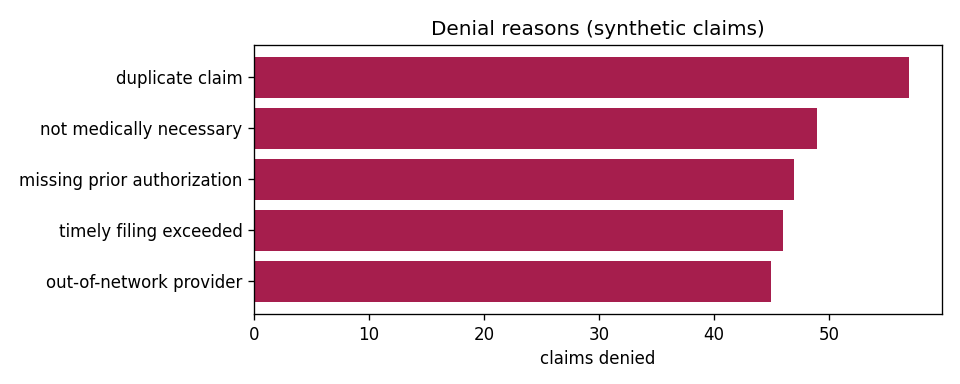
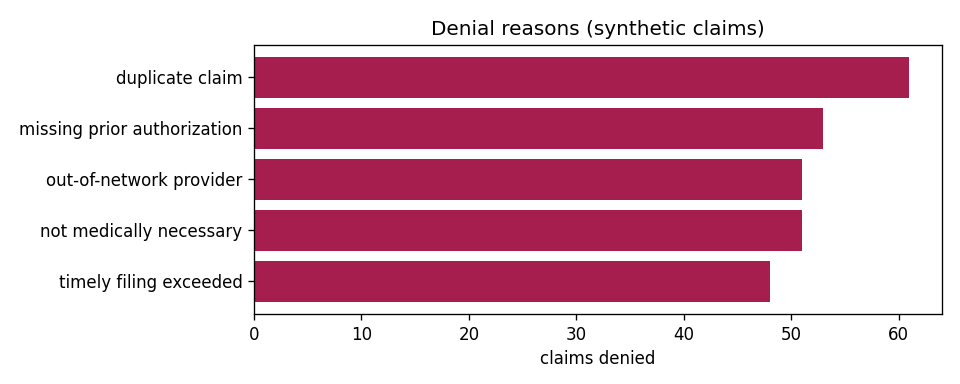
Add paid-concentration curve chart; new batches

diff --git a/src/healthdata/report.py b/src/healthdata/report.py
@@ -84,6 +84,7 @@ def render_markdown(monthly: list[dict], denial_reasons: list[tuple[str, int]],
         lines += ["", "## Paid-amount concentration", "",
                   f"Share of total paid ({concentration['claims']} claims) held by the largest claims. "
                   "Synthetic data, illustrative.", "",
+                  "![Paid concentration curve](paid_concentration.png)", "",
                   "| Top claims | Count | Share of paid |", "| --- | ---: | ---: |"]
         for t in concentration["tiers"]:
             lines.append(f"| top {t['top_pct']:.0%} | {t['claims']} | {t['share_of_paid']:.1%} |")
@@ -188,6 +189,27 @@ def plot_age_band_costs(age_bands: list[dict], out_path) -> bool:
                     bar.get_height()), ha="center", va="bottom", fontsize=8)
     ax.set_title("Average paid per claim by age band (synthetic claims)")
     ax.set_ylabel("USD per claim")
+    fig.tight_layout()
+    fig.savefig(out_path, dpi=120)
+    plt.close(fig)
+    return True
+
+
+def plot_paid_concentration(curve: list[tuple[float, float]], out_path) -> bool:
+    """Cumulative paid share vs claim share (largest first) against the
+    equal-spend diagonal. Synthetic data."""
+    if not curve:
+        return False
+    fig, ax = plt.subplots(figsize=(5.5, 4.5))
+    ax.plot([p[0] * 100 for p in curve], [p[1] * 100 for p in curve], color="#1c7ed6", linewidth=2,
+            label="largest claims first")
+    ax.plot([0, 100], [0, 100], color="grey", linestyle="--", label="equal spend")
+    ax.set_xlabel("% of claims (largest paid first)")
+    ax.set_ylabel("% of total paid")
+    ax.set_title("Paid-amount concentration (synthetic)", fontsize=11)
+    ax.set_xlim(0, 100)
+    ax.set_ylim(0, 100)
+    ax.legend(loc="lower right", fontsize=8)
     fig.tight_layout()
     fig.savefig(out_path, dpi=120)
     plt.close(fig)

diff --git a/tests/test_pipeline.py b/tests/test_pipeline.py
@@ -331,3 +331,22 @@ def test_concentration_section_renders():
         "claims": 100, "total_paid": 1990.0,
         "tiers": [{"top_pct": 0.01, "claims": 1, "share_of_paid": 0.5025}]})
     assert "| top 1% | 1 | 50.2% |" in md or "| top 1% | 1 | 50.3% |" in md
+
+
+def test_paid_curve_shape_and_values(tmp_path):
+    pipe = Pipeline(tmp_path / "c.csv")
+    pipe.ingest([make_valid(f"CLM-{i}", billed_amount=2000, allowed_amount=1500, paid_amount=p)
+                 for i, p in enumerate([60, 20, 10, 10])])      # total 100
+    curve = pipe.paid_curve(points=4)
+    assert curve == [(0.0, 0.0), (0.25, 0.6), (0.5, 0.8), (0.75, 0.9), (1.0, 1.0)]
+    shares = [c[1] for c in pipe.paid_curve(points=20)]
+    assert shares == sorted(shares) and shares[-1] == 1.0       # monotonic, ends at 100%
+    assert Pipeline(tmp_path / "e.csv").paid_curve() == []
+    assert pipe.paid_curve(points=0) == []
+
+
+def test_concentration_chart_renders(tmp_path):
+    from healthdata import report
+    assert report.plot_paid_concentration([(0.0, 0.0), (0.5, 0.8), (1.0, 1.0)], tmp_path / "c.png") is True
+    assert (tmp_path / "c.png").stat().st_size > 1000
+    assert report.plot_paid_concentration([], tmp_path / "x.png") is False

diff --git a/src/healthdata/pipeline.py b/src/healthdata/pipeline.py
@@ -202,6 +202,22 @@ class Pipeline:
                                  "share_of_paid": round(sum(paid[:k]) / total, 4)})
         return out
 
+    def paid_curve(self, points: int = 20) -> list[tuple[float, float]]:
+        """Cumulative share of paid dollars vs share of claims, largest claims
+        first, as (claims_fraction, paid_fraction) from (0, 0) to (1, 1).
+        Empty when there is nothing paid. Synthetic data, illustrative."""
+        import math
+
+        paid = sorted((float(r["paid_amount"] or 0) for r in self.load_store().values()), reverse=True)
+        total = sum(paid)
+        if not paid or total <= 0 or points < 1:
+            return []
+        out = [(0.0, 0.0)]
+        for i in range(1, points + 1):
+            k = math.ceil(len(paid) * i / points)
+            out.append((round(k / len(paid), 4), round(sum(paid[:k]) / total, 4)))
+        return out
+
     def procedure_summary(self, top: int = 5) -> list[dict]:
         """Top procedure codes by total paid, with claim count, average billed
         and denial rate. Illustrative synthetic metrics."""

diff --git a/scripts/daily_update.py b/scripts/daily_update.py
@@ -66,6 +66,8 @@ def main() -> int:
     )
     if report.plot_monthly_financials(monthly, REPORTS / "monthly_financials.png"):
         print("wrote financials chart")
+    if report.plot_paid_concentration(pipe.paid_curve(), REPORTS / "paid_concentration.png"):
+        print("wrote concentration chart")
     if report.plot_age_band_costs(pipe.age_band_costs(), REPORTS / "age_band_costs.png"):
         print("wrote age band chart")
     if report.plot_denial_reasons(reasons, REPORTS / "denial_reasons.png"):

diff --git a/reports/claims_report.md b/reports/claims_report.md
@@ -1,8 +1,8 @@
 # Healthcare Data - claims pipeline report
 
-Generated 2026-11-19 15:12 UTC. All data is synthetic - no real member, patient or plan information.
+Generated 2026-11-19 20:13 UTC. All data is synthetic - no real member, patient or plan information.
 
-**2240 claims** in store. Billed $6,921,161, paid $4,041,193, denied 244 overall.
+**2360 claims** in store. Billed $7,429,836, paid $4,314,780, denied 264 overall.
 
 ## Monthly financials
 
@@ -20,31 +20,31 @@ Generated 2026-11-19 15:12 UTC. All data is synthetic - no real member, patient 
 | 2026-08 | 50 | $87,251 | $70,911 | $55,220 | 18.0% |
 | 2026-09 | 28 | $97,162 | $80,729 | $53,482 | 7.1% |
 | 2026-10 | 47 | $71,505 | $55,063 | $42,442 | 8.5% |
-| 2026-11 | 1761 | $5,651,199 | $4,387,054 | $3,249,744 | 11.0% |
+| 2026-11 | 1881 | $6,159,873 | $4,771,873 | $3,523,330 | 11.4% |
 
 ## Denial reasons
 
-- duplicate claim (57)
-- not medically necessary (49)
-- missing prior authorization (47)
-- timely filing exceeded (46)
-- out-of-network provider (45)
+- duplicate claim (61)
+- missing prior authorization (53)
+- out-of-network provider (51)
+- not medically necessary (51)
+- timely filing exceeded (48)
 
 ## Plan mix
 
-- HMO: 589
-- PPO: 579
-- HDHP: 538
-- EPO: 534
+- HMO: 618
+- PPO: 613
+- HDHP: 566
+- EPO: 563
 
 ## Plan performance
 
 | Plan | Claims | Denial rate | Paid / billed |
 | --- | ---: | ---: | ---: |
-| HMO | 589 | 8.7% | 62.4% |
-| PPO | 579 | 11.7% | 55.5% |
-| HDHP | 538 | 9.3% | 60.6% |
-| EPO | 534 | 14.0% | 55.0% |
+| HMO | 618 | 8.9% | 61.5% |
+| PPO | 613 | 11.8% | 56.0% |
+| HDHP | 566 | 9.5% | 59.1% |
+| EPO | 563 | 14.7% | 55.4% |
 
 ## Cost sharing by plan (non-denied claims)
 
@@ -52,10 +52,10 @@ Network discount = 1 - allowed/billed. Member cost share = (allowed - paid)/allo
 
 | Plan | Claims | Network discount | Member cost share |
 | --- | ---: | ---: | ---: |
-| HMO | 538 | 21.2% | 15.2% |
-| PPO | 511 | 22.7% | 15.2% |
-| EPO | 459 | 23.3% | 14.9% |
-| HDHP | 488 | 22.7% | 14.7% |
+| PPO | 541 | 22.9% | 15.4% |
+| HMO | 563 | 21.3% | 15.3% |
+| HDHP | 512 | 23.0% | 15.0% |
+| EPO | 480 | 23.3% | 14.8% |
 
 ## Denial-rate outliers (plan x month)
 
@@ -63,32 +63,34 @@ Cells whose denial rate is at least 2 standard errors from the overall rate (cel
 
 | Plan | Month | Claims | Denial rate | Overall | z |
 | --- | --- | ---: | ---: | ---: | ---: |
-| EPO | 2026-11 | 414 | 14.7% | 10.9% | +2.51 |
-| HMO | 2026-11 | 456 | 7.7% | 10.9% | -2.21 |
+| EPO | 2026-11 | 443 | 15.6% | 11.2% | +2.93 |
+| HMO | 2026-11 | 485 | 8.0% | 11.2% | -2.20 |
 
 ## Paid-amount concentration
 
-Share of total paid (2240 claims) held by the largest claims. Synthetic data, illustrative.
+Share of total paid (2360 claims) held by the largest claims. Synthetic data, illustrative.
+
+![Paid concentration curve](paid_concentration.png)
 
 | Top claims | Count | Share of paid |
 | --- | ---: | ---: |
-| top 1% | 23 | 13.9% |
-| top 5% | 112 | 55.4% |
-| top 10% | 224 | 86.4% |
+| top 1% | 24 | 13.5% |
+| top 5% | 118 | 54.6% |
+| top 10% | 236 | 86.7% |
 
 ## Top procedures by paid amount
 
 | Code | Claims | Avg billed | Paid | Denial rate |
 | --- | ---: | ---: | ---: | ---: |
-| 27447 | 238 | $24,831 | $3,465,329 | 11.3% |
-| 43239 | 238 | $2,045 | $272,888 | 13.5% |
-| 99285 | 228 | $1,069 | $134,863 | 14.5% |
-| 70450 | 216 | $660 | $86,353 | 7.4% |
-| 99214 | 218 | $165 | $20,971 | 11.5% |
+| 27447 | 256 | $24,912 | $3,719,240 | 11.3% |
+| 43239 | 246 | $2,033 | $279,278 | 13.8% |
+| 99285 | 237 | $1,067 | $137,914 | 16.0% |
+| 70450 | 234 | $659 | $92,841 | 7.7% |
+| 99214 | 231 | $166 | $21,981 | 12.6% |
 
 ## Member utilization
 
-220 of 1329 synthetic members have 3+ claims and account for 33.9% of paid dollars.
+237 of 1364 synthetic members have 3+ claims and account for 34.4% of paid dollars.
 
 | Member | Claims | Paid |
 | --- | ---: | ---: |
@@ -96,16 +98,16 @@ Share of total paid (2240 claims) held by the largest claims. Synthetic data, il
 | MBR-0136 | 6 | $1,569 |
 | MBR-0471 | 5 | $28,036 |
 | MBR-0939 | 5 | $27,251 |
-| MBR-1424 | 5 | $14,713 |
+| MBR-0618 | 5 | $18,105 |
 
 ## Top denial reason by plan
 
 | Plan | Denials | Top reason | Count |
 | --- | ---: | --- | ---: |
-| EPO | 75 | duplicate claim | 20 |
-| HDHP | 50 | out-of-network provider | 13 |
-| HMO | 51 | missing prior authorization | 12 |
-| PPO | 68 | timely filing exceeded | 21 |
+| EPO | 83 | duplicate claim | 21 |
+| HDHP | 54 | out-of-network provider | 15 |
+| HMO | 55 | not medically necessary | 13 |
+| PPO | 72 | timely filing exceeded | 21 |
 
 ## Month-over-month trend (last 6 complete months)
 
@@ -120,7 +122,7 @@ Share of total paid (2240 claims) held by the largest claims. Synthetic data, il
 
 ## Potential duplicate services
 
-27 groups share a member, procedure and service date (review queue, not a quality failure).
+31 groups share a member, procedure and service date (review queue, not a quality failure).
 
 | Member | Procedure | Date | Claims | Paid |
 | --- | --- | --- | ---: | ---: |
